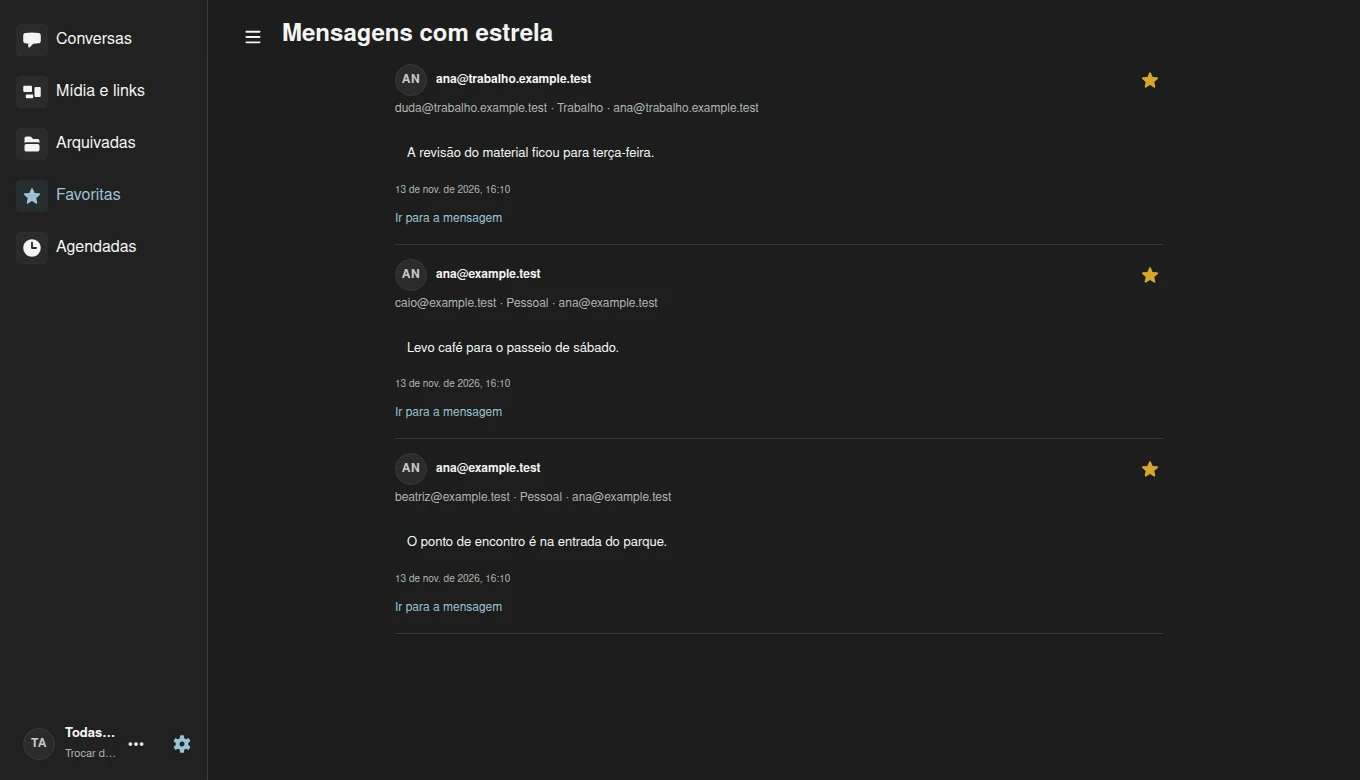
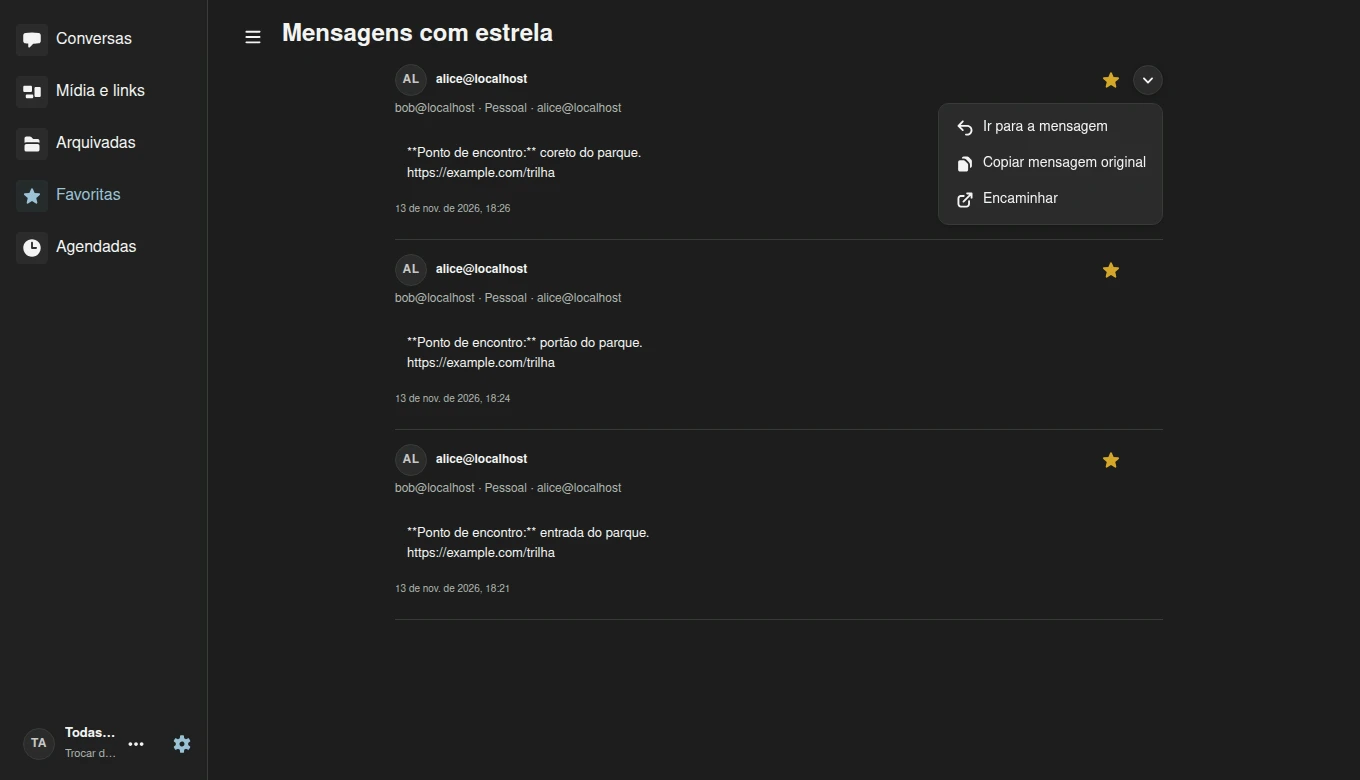
Documentar encaminhamento para salas

diff --git a/content/docs/manual/index.md b/content/docs/manual/index.md
@@ -62,13 +62,25 @@ Os atalhos **Mídia**, **Links** e **Documentos** abrem o catálogo com o mesmo 
 
 No menu da mensagem, escolha **Marcar mensagem com estrela**. Abra **Favoritas** na barra lateral para ver as mensagens marcadas em conversas diretas e salas, inclusive nas arquivadas. A lista segue a conta selecionada. Use **Todas as contas** no seletor para reunir as mensagens de todas elas.
 
-Em cada resultado, use **Ir para a mensagem** para voltar à conversa de origem. Selecione a estrela para remover a mensagem da lista.
+No menu de cada resultado, use **Ir para a mensagem** para voltar à conversa de origem, **Copiar mensagem original** para copiar o texto ou **Encaminhar** para enviar uma cópia. Selecione a estrela para remover a mensagem da lista.
 
-![Seção Favoritas com mensagens das contas Pessoal e Trabalho, cada uma com uma estrela e o link Ir para a mensagem.](imagens/mensagens-favoritas.webp "Mensagens favoritas")
+![Seção Favoritas com o menu da mensagem aberto e as opções Ir para a mensagem, Copiar mensagem original e Encaminhar.](imagens/mensagens-favoritas.webp "Mensagens favoritas")
 
 [Ver a captura de Favoritas no tamanho original](imagens/mensagens-favoritas-original.webp)
 
 A seção **Favoritas** da barra lateral está disponível na prévia de desenvolvimento posterior à v0.0.1-rc.8.
+
+## Encaminhar mensagens
+
+Abra **Encaminhar** no menu de uma mensagem em **Conversas**, **Favoritas** ou **Mídia e links**. Escolha uma ou mais salas e confirme em **Encaminhar**. O seletor mostra a conta de cada sala. Cada cópia é enviada pela conta da sala escolhida.
+
+O Oiê copia o texto da mensagem e prepara os anexos para o novo envio. Se houver falha em um destino, confira o aviso ao lado da sala e use **Tentar novamente**. As salas cuja cópia já entrou na fila ficam marcadas.
+
+![Janela Encaminhar mensagem com duas salas selecionadas, uma da conta Pessoal e outra da conta Trabalho.](imagens/encaminhar-mensagem.webp "Selecionar salas para encaminhar")
+
+[Ver a captura do encaminhamento no tamanho original](imagens/encaminhar-mensagem-original.webp)
+
+O encaminhamento está disponível na prévia de desenvolvimento posterior à v0.0.1-rc.8.
 
 ## Envio agendado
 

diff --git a/README.md b/README.md
@@ -2,7 +2,7 @@
 
 Site do [Oiê](https://github.com/araihu/oie), gerado com [Margo](https://github.com/araihu/margo/tree/v0.0.35). O conteúdo está em `content/` e a configuração em `site.yaml`.
 
-A seção de mensagens favoritas do manual foi conferida na prévia do aplicativo, revisão `30539b2478a30f825b3592017fdf5aaa1e82a293`, a partir da main `b246ead0ef3daeecbfd2d07d394be23a4155bd0c`.
+As seções de mensagens favoritas e encaminhamento do manual foram conferidas na prévia do aplicativo, revisão `f74d0bd3ed3d6178875317f044e5dbd5d8008b58`, a partir da main `b246ead0ef3daeecbfd2d07d394be23a4155bd0c`.
 
 ## Desenvolvimento
 
